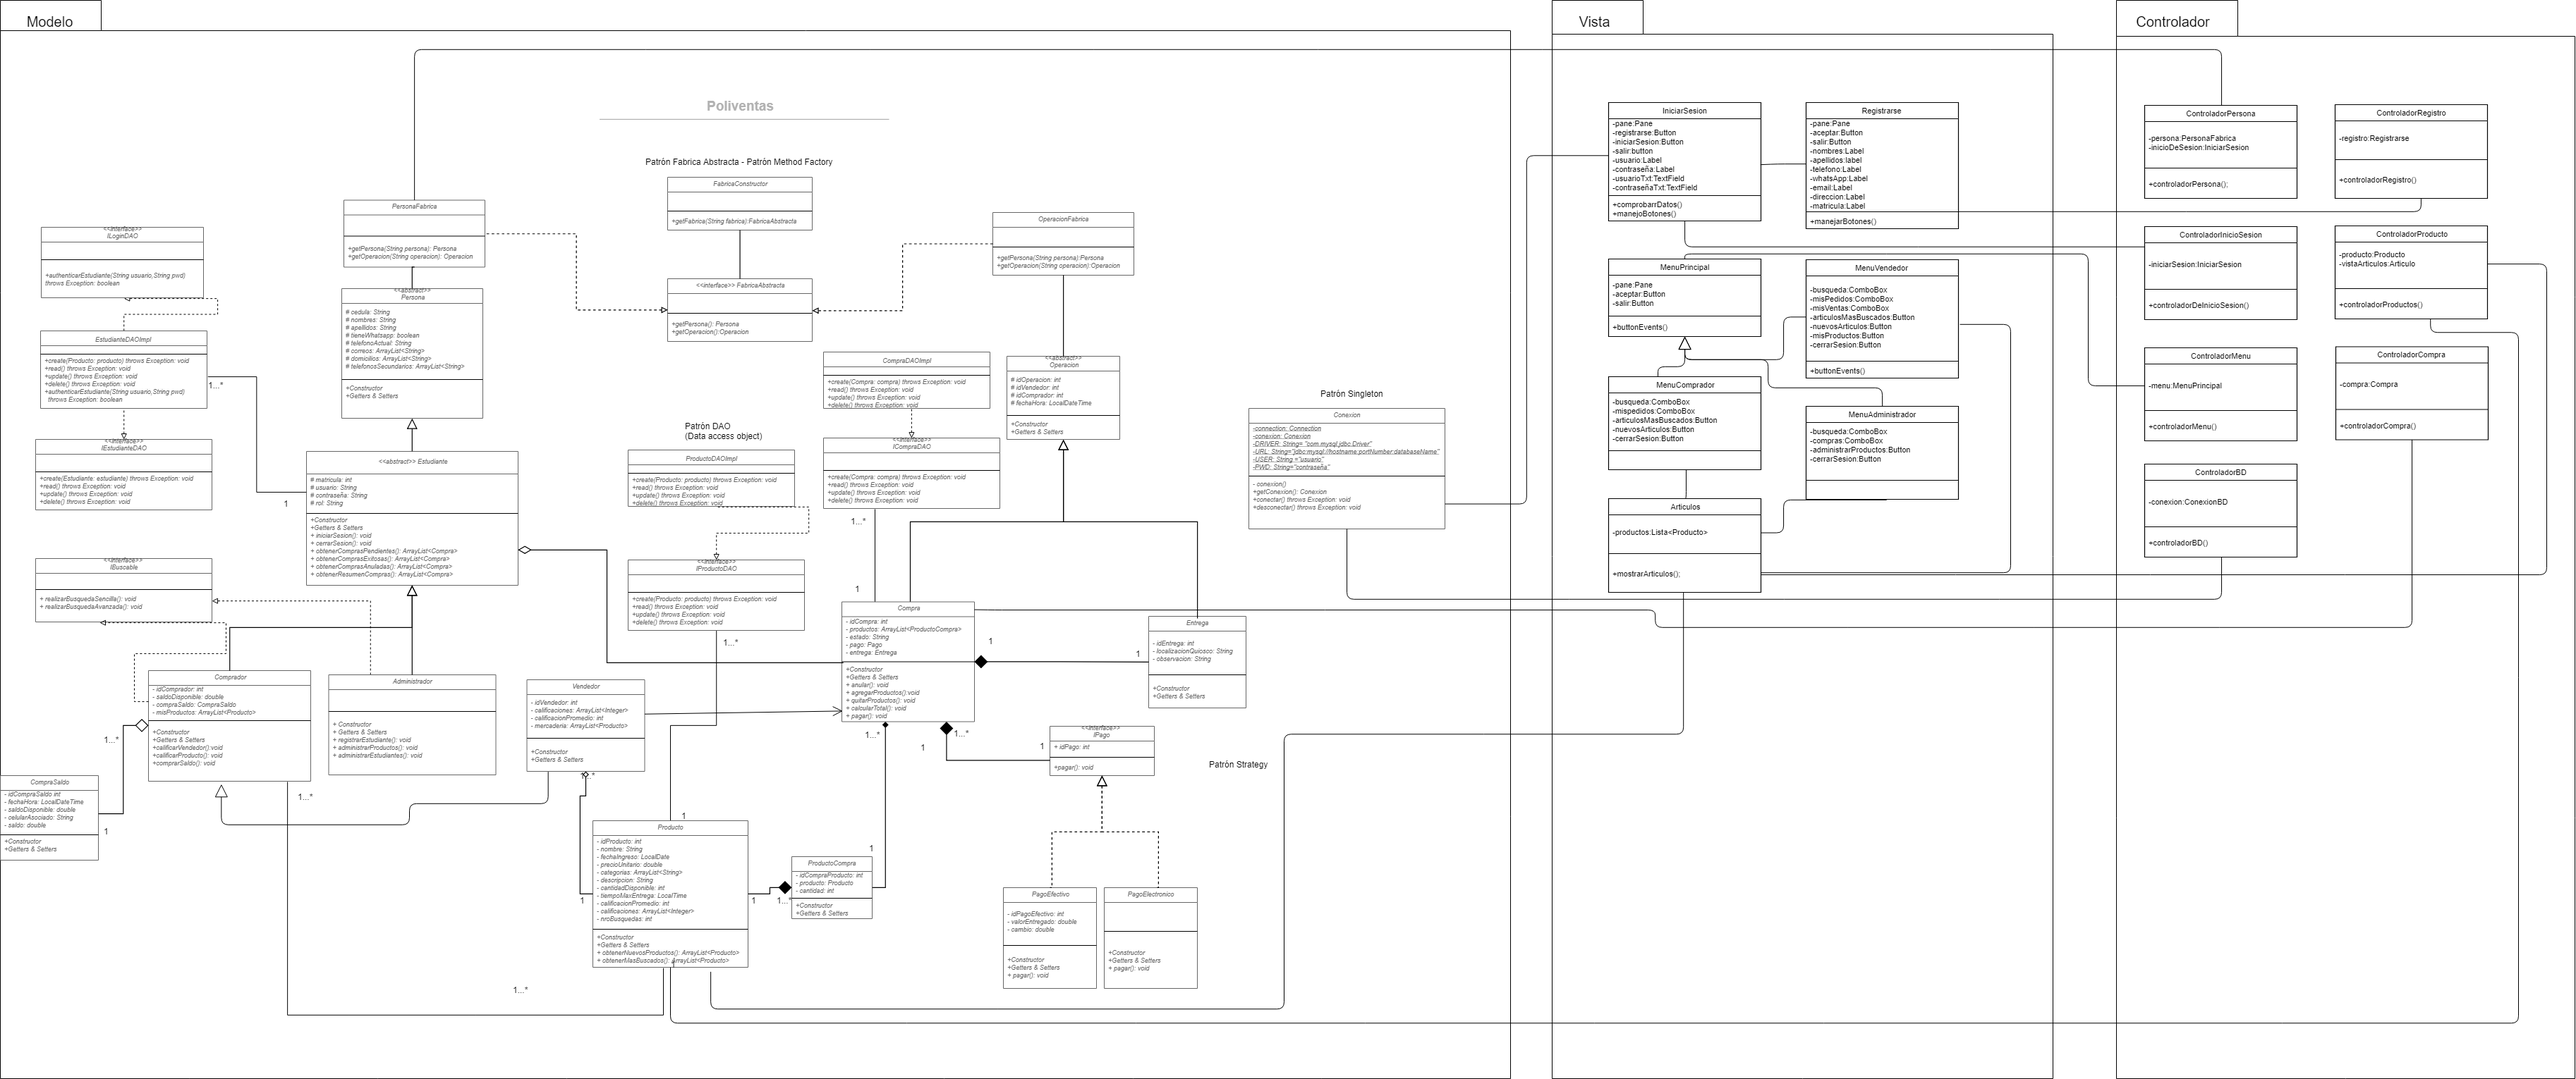
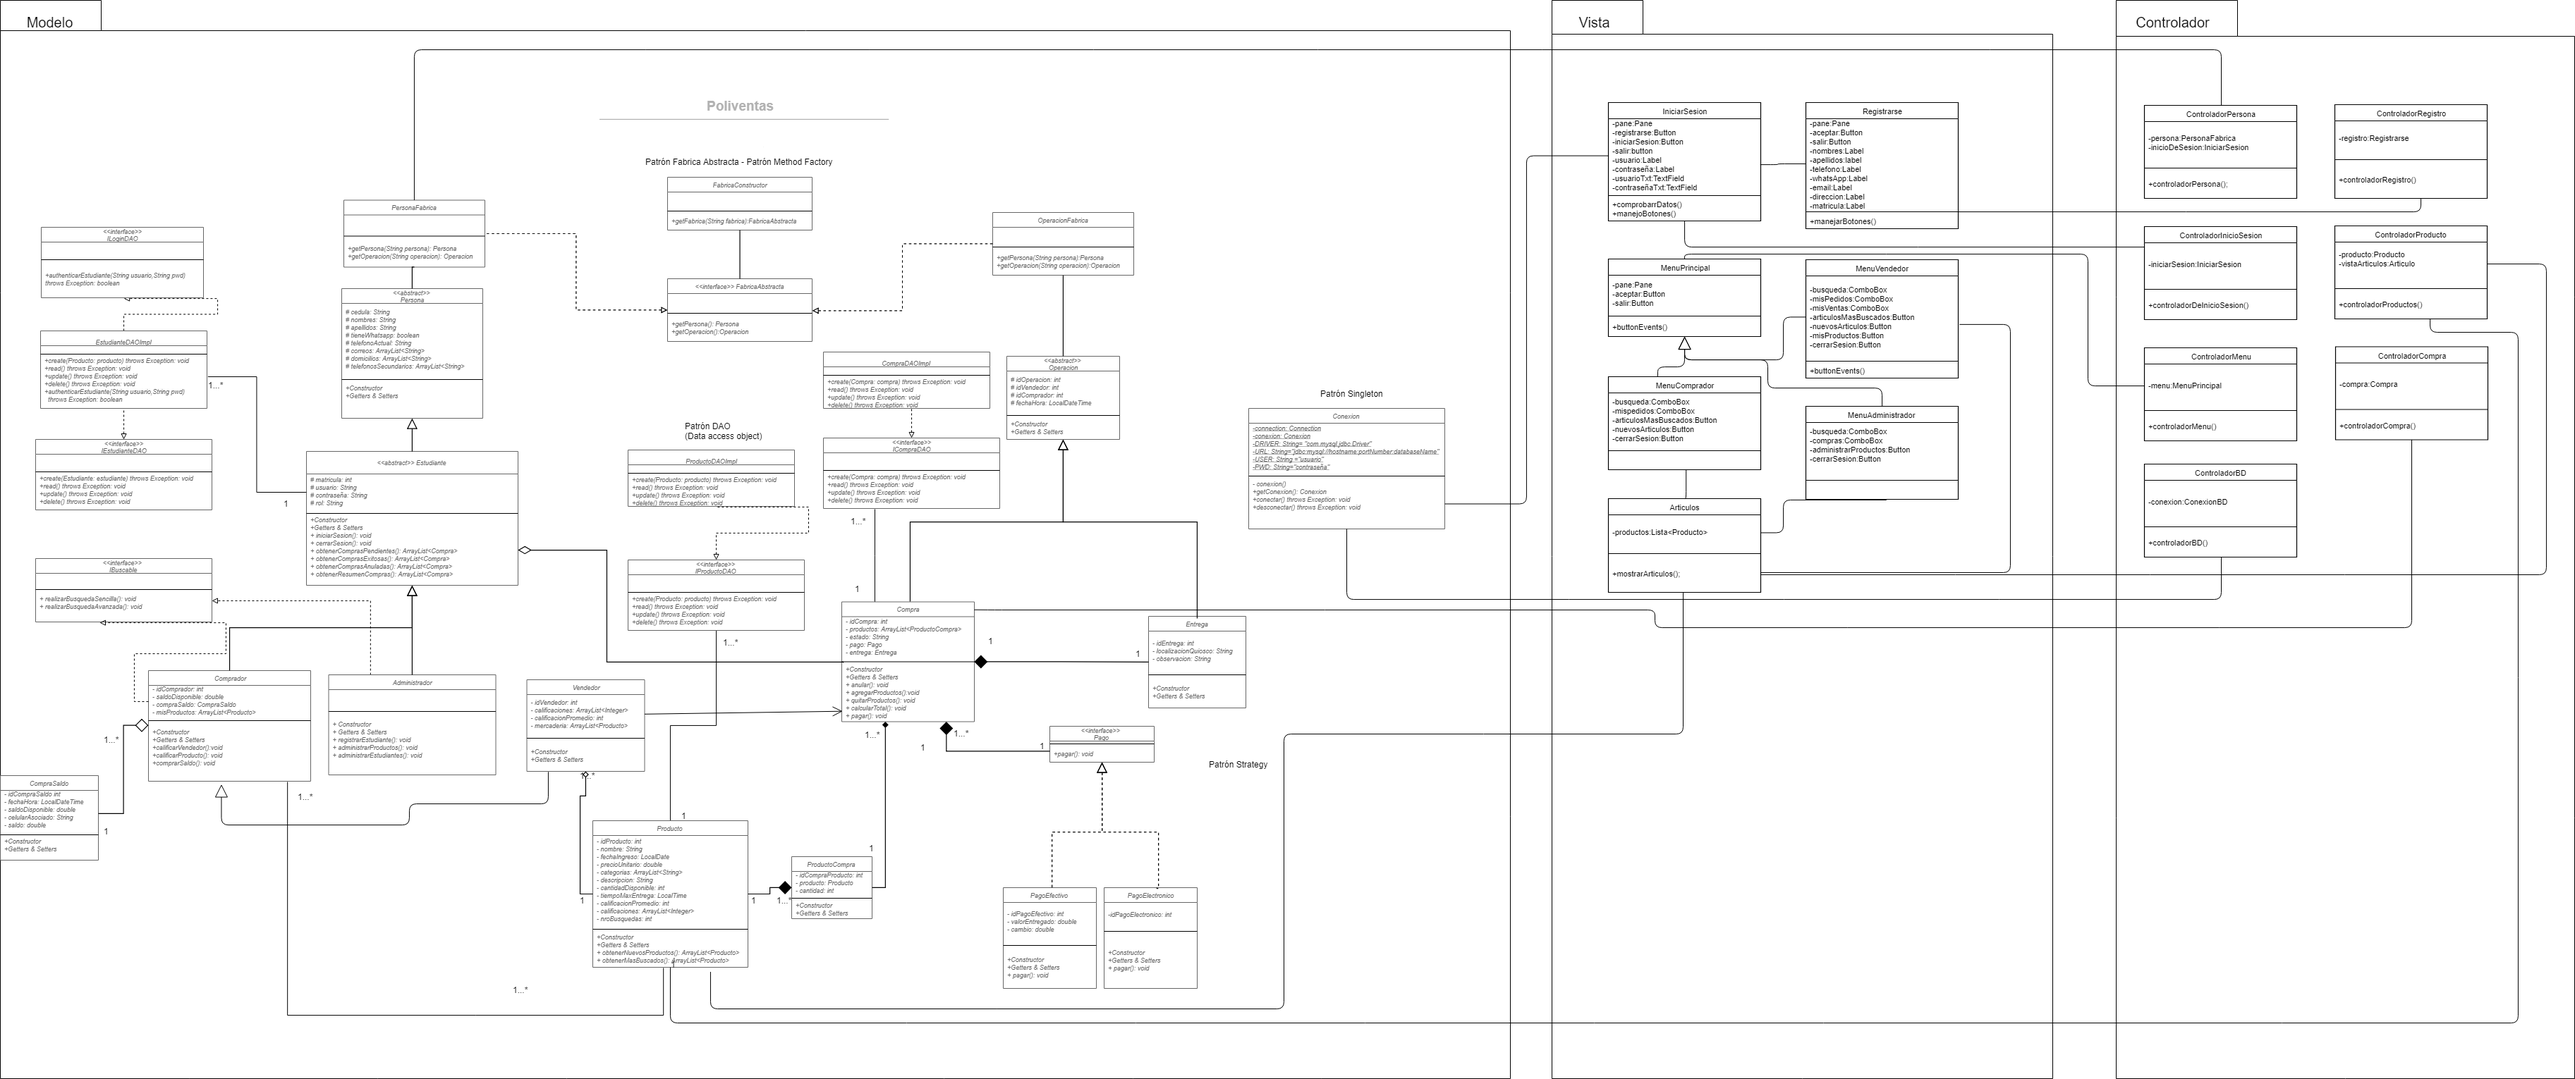
Creacion de clases, atributos y metodos

diff --git a/ProyectoDS/src/Controlador/ControladorProducto.java b/ProyectoDS/src/Controlador/ControladorProducto.java
@@ -1,0 +1,14 @@
+/*
+ * To change this license header, choose License Headers in Project Properties.
+ * To change this template file, choose Tools | Templates
+ * and open the template in the editor.
+ */
+package Controlador;
+
+/**
+ *
+ * @author Harold
+ */
+public class ControladorProducto {
+    
+}
